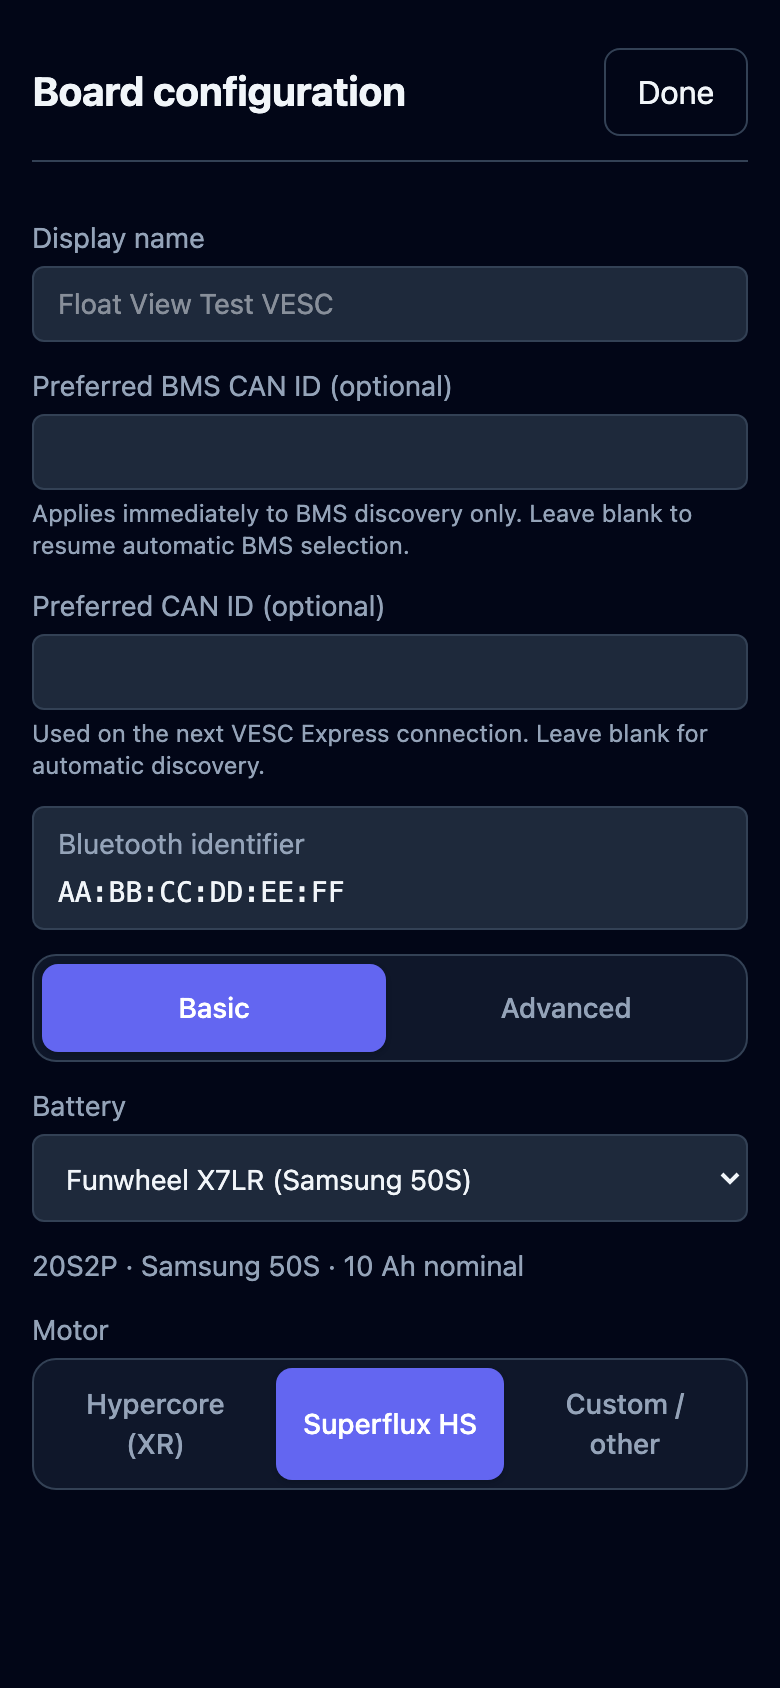
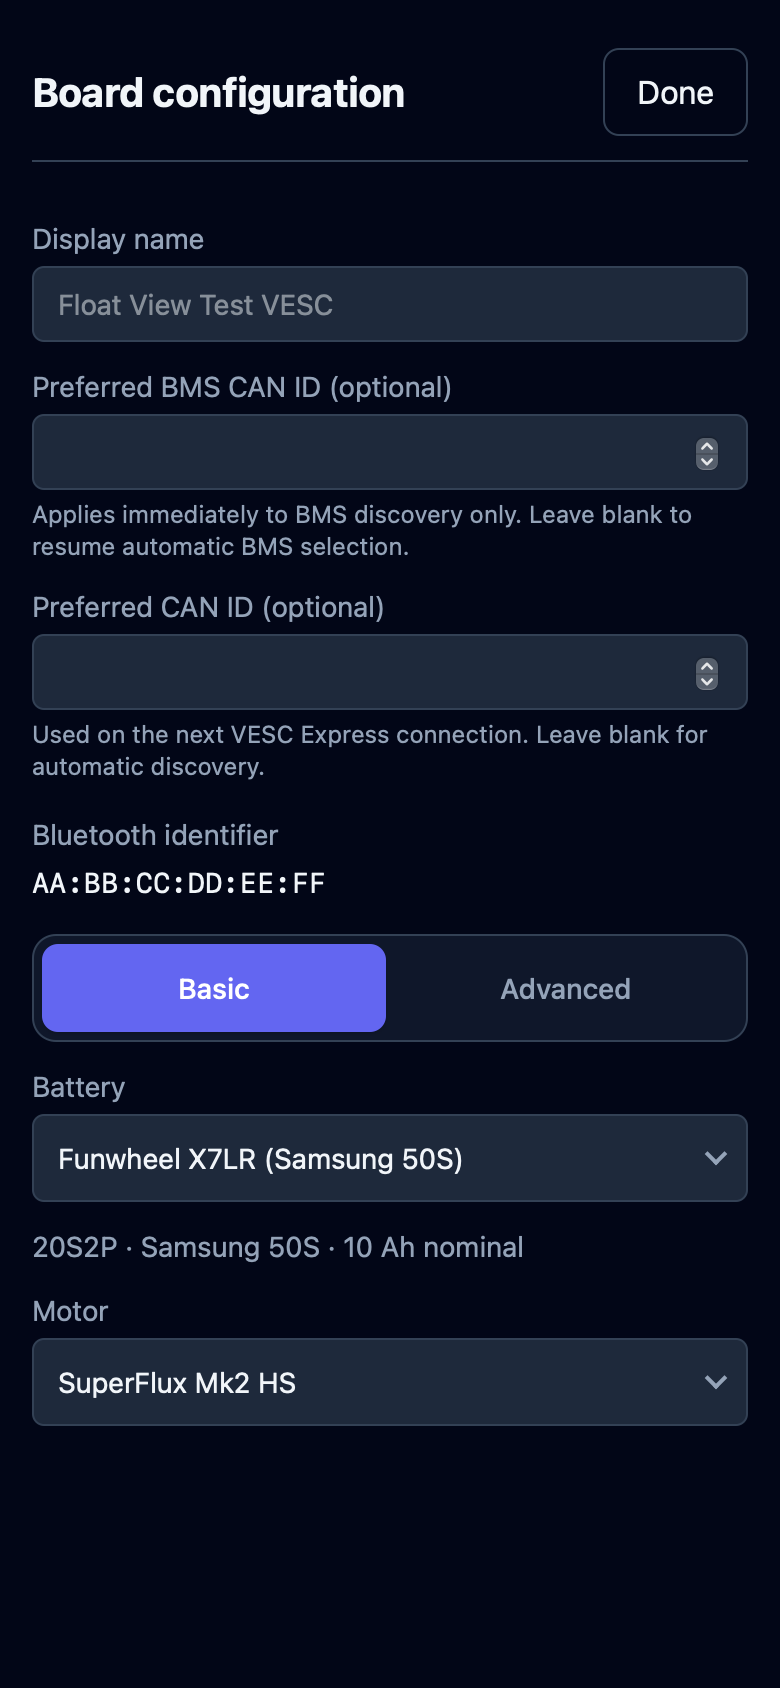
docs: refresh README screenshots and showcase saved tunes

diff --git a/README.md b/README.md
@@ -36,8 +36,8 @@
       <a href="docs/screenshots/board-configuration.png"><img src="docs/screenshots/board-configuration.png" width="240" alt="Motor and battery configuration"></a>
     </td>
     <td align="center" valign="top" width="33%">
-      <strong>App settings</strong><br>
-      <a href="docs/screenshots/settings.png"><img src="docs/screenshots/settings.png" width="240" alt="App preferences and enabled ride location recording"></a>
+      <strong>Saved tunes</strong><br>
+      <a href="docs/screenshots/tunes.png"><img src="docs/screenshots/tunes.png" width="240" alt="Two saved Refloat tunes with the active preset selected"></a>
     </td>
   </tr>
 </table>
